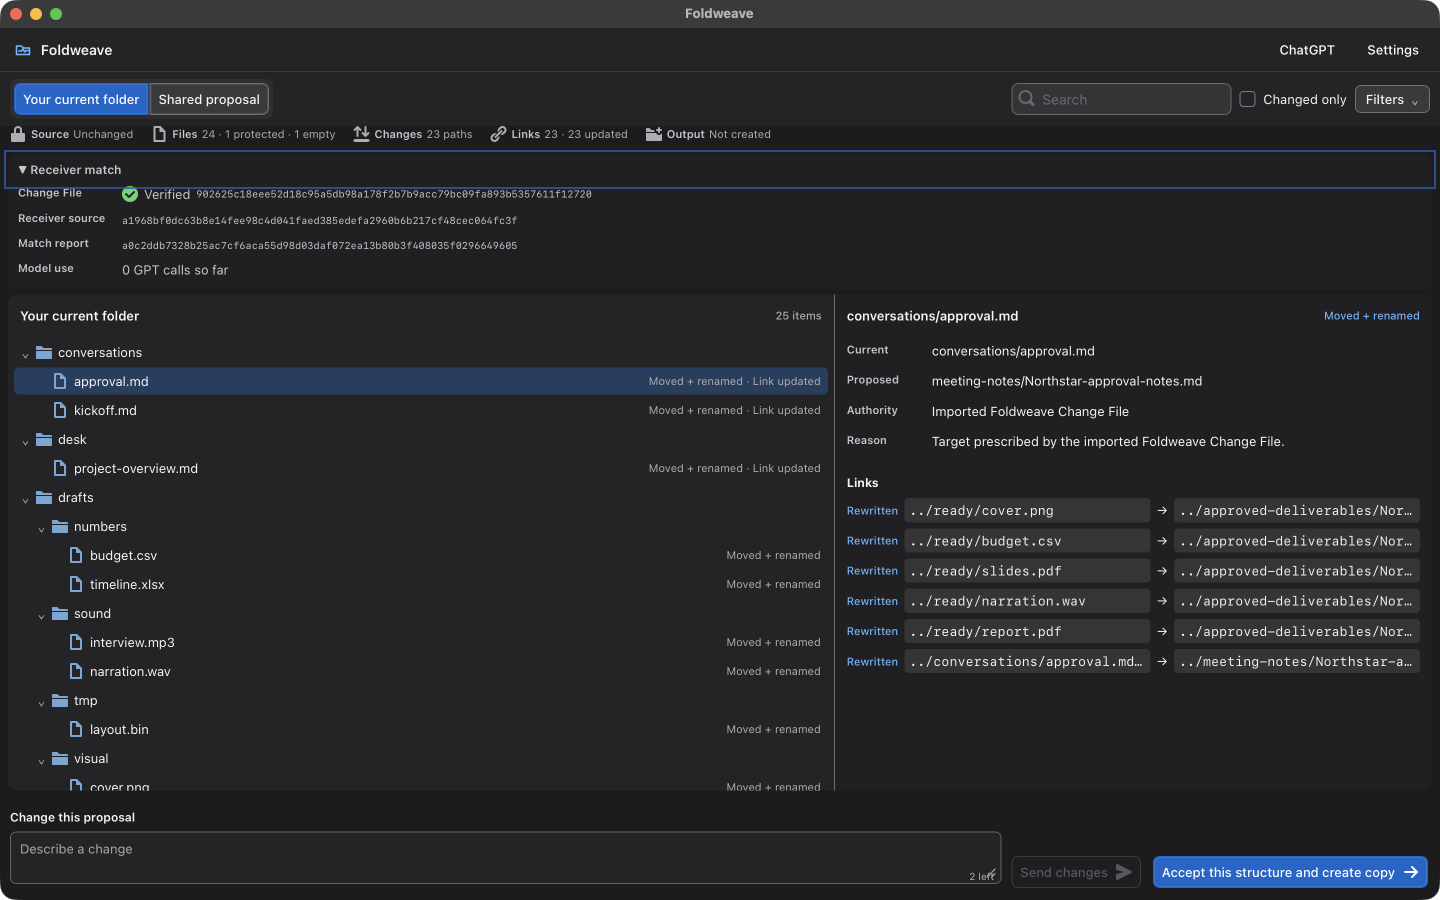
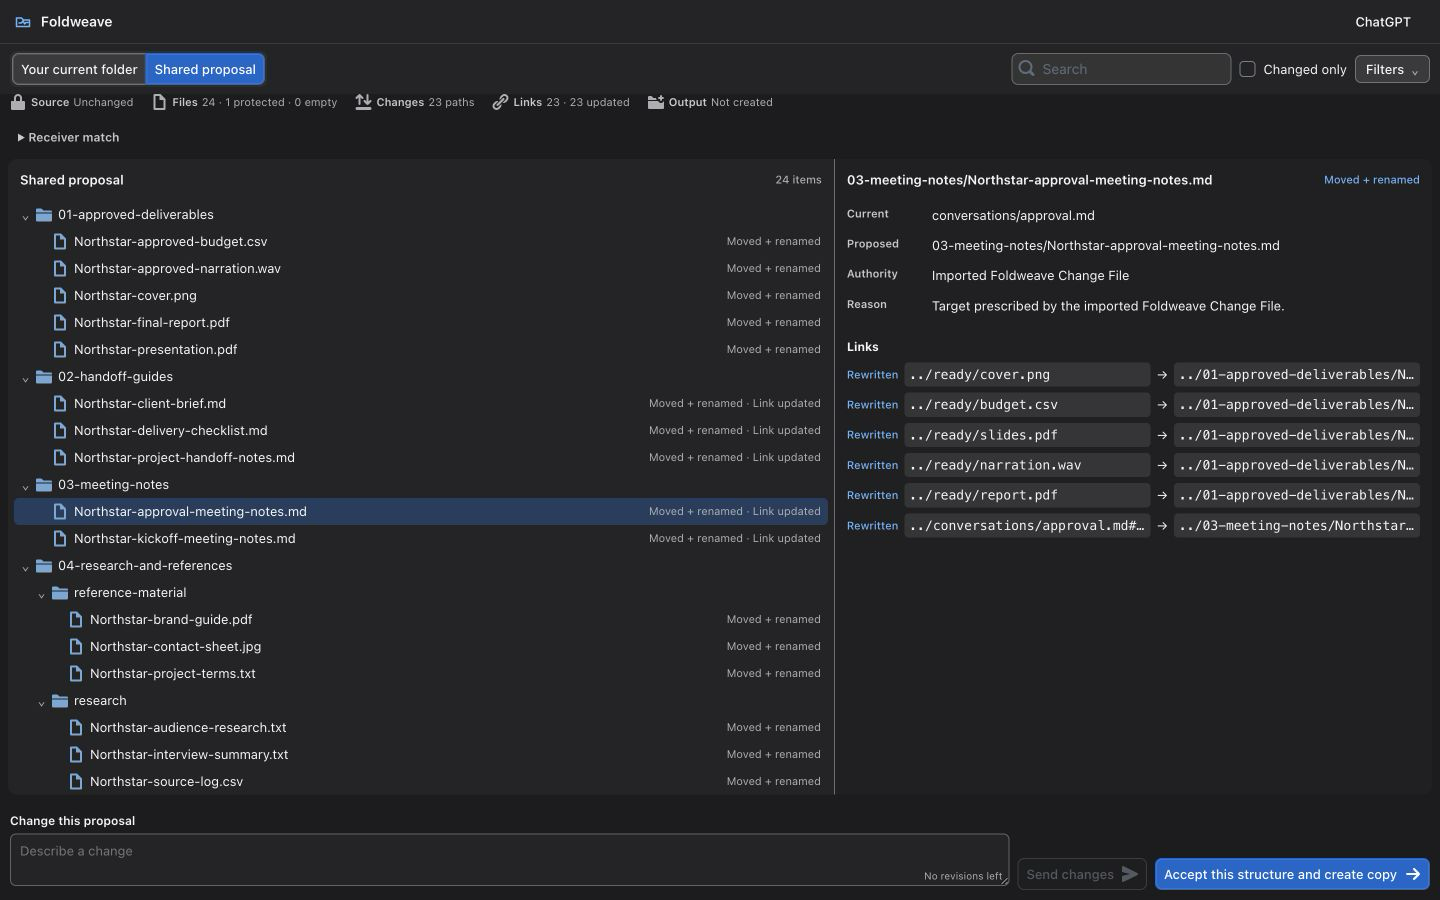
fix: finalize Foldweave replacement demo

diff --git a/web/src/review.css b/web/src/review.css
@@ -485,6 +485,8 @@ html[data-focus-origin="pointer"] .fw-review :where(button, input, textarea, sum
 }
 
 .fw-link-section {
+  min-width: 0;
+  overflow: hidden;
   padding: 4px 12px 14px;
 }
 
@@ -517,6 +519,8 @@ html[data-focus-origin="pointer"] .fw-review :where(button, input, textarea, sum
   display: grid;
   gap: 6px;
   grid-template-columns: auto minmax(0, 1fr) auto minmax(0, 1fr);
+  max-width: 100%;
+  min-width: 0;
 }
 
 .fw-link-section code,
@@ -527,6 +531,9 @@ html[data-focus-origin="pointer"] .fw-review :where(button, input, textarea, sum
 }
 
 .fw-link-section code {
+  display: block;
+  max-width: 100%;
+  min-width: 0;
   overflow: hidden;
   text-overflow: ellipsis;
   white-space: nowrap;

diff --git a/docs/SUBMISSION_PACKAGE.md b/docs/SUBMISSION_PACKAGE.md
@@ -42,7 +42,7 @@ external approval, release the submission hold, or authorize final submission.
 | Release candidate | Product baseline `4e9ec44b02b25f515017ceb9922fff4fdf84ae46` plus final UI/runtime checkpoint `68aba38a643d95f69e9aacd392904ef310f6994c` are selected and accepted; a fresh unrelated clean clone rebuilt and exercised the exact final product code successfully |
 | Final public `main` | Contains the accepted Foldweave release evidence through an ordinary no-force fast-forward; the exact current SHA is reported in the release handoff rather than embedded self-referentially |
 | Final screenshots and thumbnail | Nine UI captures, one explicitly labelled installed-copy Codex evidence card, and the thumbnail are visually reviewed, hash-recorded, and published in current release-evidence history; final focus/runtime corrections are verified separately and do not make a false recapture claim |
-| Final public video | **VERIFIED PUBLIC** — 2:55, <https://youtu.be/aQgpK5z9OUQ>; complete public playback reached Replay at 2:55 with audio enabled; YouTube checks reported no issues |
+| Final public video | **VERIFIED PUBLIC** — replacement 2:54 fixed-frame demo at <https://youtu.be/wY6gL6wfLzo>; exact stream and public metadata verified; YouTube checks reported no issues |
 | `/feedback` Session ID | **CAPTURED PRIVATELY** — exact value reserved for required Devpost field `27950` |
 | Personal eligibility and ownership attestations | **USER ACTION PENDING** |
 | Submission-hold release | **USER ACTION PENDING** |
@@ -106,8 +106,8 @@ user must personally review and make every personal or legal attestation.
[2 lines of base64/hex data omitted]
 | Final screenshots and thumbnail | Nine Foldweave UI captures, one installed-copy Codex evidence card, and the thumbnail are visually reviewed, hash-recorded, and published in current release-evidence history; the evidence card is not represented as a literal Codex UI screenshot |
-| Devpost project copy | Public project `1327974`, version `9`, is synchronized to the accepted product candidate and canonical Foldweave repository URL and includes the judge path, thumbnail, and verified public video without exposing the private `/feedback` identifier; required submission-field answers and personal attestations remain pending |
-| Public video URL | <https://youtu.be/aQgpK5z9OUQ> — Public; exact local master duration 175.000 seconds; public playback verified end to end |
+| Devpost project copy | Public project `1327974`, version `10`, is synchronized to the accepted product candidate, canonical Foldweave repository URL, and replacement public video without exposing the private `/feedback` identifier; required submission-field answers and personal attestations remain pending |
+| Public video URL | <https://youtu.be/wY6gL6wfLzo> — Public; exact local master duration 174.000 seconds; public watch page verified |
 | `/feedback` Session ID | `[CAPTURED PRIVATELY FROM THE PRIMARY CODEX BUILD TASK; ENTER IN REQUIRED FIELD 27950]` |
 | Entrant type and country | `[USER ACTION REQUIRED; DO NOT INFER]` |
 | Eligibility/ownership attestations | `[USER ACTION REQUIRED; READ AND PERSONALLY ATTEST]` |
@@ -750,7 +750,7 @@ production hardening are outside this release.
 | Judge instructions | `Use the final README from the accepted release. The fastest keyless path is uv sync --frozen followed by uv run foldweave demo --mode replay. Review the proposed structure, accept the exact preview, verify the separate result, and recreate the selected source. No API key is required for replay.` |
 | Plugin/developer-tool instructions | `Use the final plugins/foldweave/README.md from the accepted clean clone. Install foldweave@personal, restart or refresh Codex, open a fresh task, and invoke the installed Foldweave tools. Installed-copy release qualification is verified evidence for the accepted release candidate.` |
 | ChatGPT availability | `DEVELOPER_MODE_VERIFIED; CONSUMER_PAIRING_VERIFIED; technically PUBLICATION_READY. Not submitted for review, approved, published, publicly listed, or generally available.` |
-| Public video URL | `https://youtu.be/aQgpK5z9OUQ` — Public, 2:55, playback verified |
+| Public video URL | `https://youtu.be/wY6gL6wfLzo` — Public, 2:54, exact stream and metadata verified |
 | `/feedback` Session ID | `[CAPTURED PRIVATELY; USE THE EXACT PRIMARY-TASK VALUE IN FIELD 27950]` |
 | Submitter type | `[USER CONFIRM: INDIVIDUAL / TEAM / ORGANIZATION]` |
 | Country | `[USER CONFIRM; DO NOT INFER]` |
@@ -759,100 +759,79 @@ production hardening are outside this release.
 
 ## Final public video and demonstration record
 
-The final Build Week demo is public at <https://youtu.be/aQgpK5z9OUQ>.
+The replacement Build Week demo is public at <https://youtu.be/wY6gL6wfLzo>.
+It replaces the earlier moving-crop edit with a problem-first, fixed-frame
+explanation grounded in a fresh real `gpt-5.6` transaction.
 
 | Property | Verified result |
 |---|---|
-| Title | `Foldweave — Change the Structure. Keep the Connections. | OpenAI Build Week 2026` |
+| Title | `Foldweave | One change across different folder layouts | OpenAI Build Week` |
 | Visibility | Public |
-| Exact master duration | 175.000 seconds (`2:55`) |
-| Video | H.264 High, 1920×1080, 30 fps, progressive BT.709, 5,250 frames |
-| Audio | AAC-LC, 48 kHz stereo; −16.3 LUFS; true peak −4.4 dBFS |
[1 lines of base64/hex data omitted]
-| Narration | AI-generated with OpenAI Text-to-Speech from the frozen, evidence-checked script; disclosed on screen and in the YouTube description |
[1 lines of base64/hex data omitted]
-| YouTube processing | Checks complete; no issues found |
-| Public playback | Verified from start to Replay at 2:55 in Google Chrome with audio enabled and autoplay disabled |
+| Exact master duration | 174.000 seconds (`2:54`) |
+| Video | H.264 High, 1920×1080, 30 fps, progressive, `yuv420p`, 5,220 frames |
+| Audio | AAC-LC, 48 kHz stereo; −16.0 LUFS; true peak −1.37 dBFS |
[1 lines of base64/hex data omitted]
+| Narration | Generated with OpenAI Text-to-Speech model `gpt-4o-mini-tts-2025-12-15`, voice `cedar`; disclosed on the end card and in the YouTube description |
[1 lines of base64/hex data omitted]
+| YouTube processing | Upload complete; copyright checks complete; no issues found |
+| Public verification | Public watch page loaded the exact title, problem-first description, and 2:54 stream; the complete local master decoded without error |
+| Motion and framing | Thirteen fixed visual states, hard cuts only, no pan, no zoom, no moving crop, no overlay across an app control, and a separate unclipped end card |
 
-The following table is the executed shot plan. The exported master remains five
-seconds below the three-minute maximum after narration, transitions, and final
-encoding.
+The video shows a real exact `gpt-5.6` Responses API proposal for Sofia. After
+exact acceptance, Foldweave creates and verifies a separate 24-file result and
+rewrites 23 supported Markdown links. Martin then applies the resulting
+Foldweave Change File to the same project under different local paths without a
+model call or direct-budget reservation. The two results commit the same
+organized tree:
+
[1 lines of base64/hex data omitted]
+
+The following table is the executed fixed-frame shot plan.
 
 | Time | Visual and action | Purpose |
 |---:|---|---|
-| 0:00–0:12 | Foldweave title; one project note linking to several local files | Establish that a folder contains connections, not only filenames |
-| 0:12–0:30 | Open `Foldweave.app`; choose Sofia's folder; enter the Northstar request | Show the native, local-first start and plain-language intent |
-| 0:30–0:52 | Review **Original structure** and **Proposed structure**; search or select one changed member | Prove that the complete plan is visible before execution |
-| 0:52–1:10 | Enter one focused revision; show the replacement preview and delta | Demonstrate bounded iteration while the prior valid preview remains safe |
-| 1:10–1:26 | Select **Accept this structure and create copy**; show Done, source unchanged, and independent verification | Show exact authorization and separate verified output |
-| 1:26–1:41 | Download the Foldweave Change File; briefly show the payload-free metadata disclosure | Explain what travels and what does not |
-| 1:41–2:02 | Martin chooses CF1 and his differently arranged project; toggle **Your current folder** / **Shared proposal** | Show deterministic receiver-local review without GPT |
-| 2:02–2:22 | Build and review one T2 derivative through the selected live host; accept exact preview | Show serial collaboration rather than blind replay |
-| 2:22–2:38 | Apply CF2 to Sofia or a verified T1 result; show equal organized-tree proof and source-specific reconstruction | Demonstrate convergence and reversibility within the contract |
-| 2:38–2:48 | Brief ChatGPT widget and Codex installed-tool evidence | Explain the shared host surfaces and model-authority split |
-| 2:48–2:55 | Foldweave end card | Close with the product promise; the public repository remains in the YouTube description and Devpost field |
-
-F0d has passed, so the final video may show the qualified consumer ChatGPT path
-with the explicit same-conversation revision-recovery limitation. Do not imply
-review submission, approval, publication, public listing, or general
-availability.
+| 0:00–0:16 | Sofia and Martin show the same members under different paths | Define the portability problem immediately |
+| 0:16–0:29 | GPT-5.6, Foldweave, and human authority are separated | Explain the core architecture |
+| 0:29–0:42 | Display the exact plain-English request sent to `gpt-5.6` through the Responses API | Prove that the proposal came from a real live request |
+| 0:42–0:55 | Show Sofia's original 24-file tree | Prove that the source is untouched and no output exists |
+| 0:55–1:10 | Show the complete proposed structure and acceptance control | Prove review before execution |
+| 1:10–1:22 | Inspect a concrete Markdown destination rewrite | Show connection preservation at byte-bounded scope |
+| 1:22–1:35 | Show the separate verified result and reconstruction promise | Explain exact acceptance and proof |
+| 1:35–1:49 | Explain what the Foldweave Change File contains and excludes | Distinguish portable change metadata from project payload |
+| 1:49–2:03 | Show Martin's differently arranged current tree | Establish the receiver-local source |
+| 2:03–2:19 | Show Sofia's shared proposal against Martin's copy | Explain deterministic content and relationship matching |
+| 2:19–2:34 | Show equal organized-tree convergence | Prove model-free reuse across layouts |
+| 2:34–2:48 | Distinguish Codex, GPT-5.6, and Foldweave responsibilities | Document Build Week tool use and authority |
+| 2:48–2:54 | Separate Foldweave end card with repository and narration disclosure | Close without covering or clipping product UI |
 
 ## Timed narration script
 
-This is the frozen script used by the final OpenAI Text-to-Speech narration. It
-intentionally avoids a public-listing claim and uses the verified developer-mode
-and consumer-pairing evidence with their exact qualifications. The script
-contains **317 whitespace-delimited words**. Its 27 timed cues end at 2:53.800,
-leaving a 1.2-second silent end-card hold inside the exact 2:55 master.
+The final narration contains **300 whitespace-delimited words** in 13 timed
+cues. Each cue is aligned to one fixed visual state.
 
-> A project folder is more than filenames. Notes connect reports, research,
-> meetings, images, and working files. Reorganizing that folder with AI is easy.
-> Knowing exactly what will change, preserving the connections, and carrying the
-> same structure to a teammate's differently arranged copy is harder.
->
-> Foldweave separates planning, authorization, and proof.
->
-> Sofia selects her Apollo project and asks for a Northstar handoff. A live host
-> or this exact recorded planning run proposes one complete structure from
-> bounded evidence. The model cannot move a file or approve its own work.
->
-> Before Foldweave creates anything, Sofia sees her original folder and the
-> proposed structure. Every admitted file appears once. She can inspect moved
-> items and supported Markdown links, then request a focused revision. Fixed
-> code applies only that sparse change, rebuilds the complete proposal, and
-> checks every destination again.
->
-> Sofia accepts the exact preview. Foldweave creates a separate result, updates
-> supported link destinations, leaves her source unchanged, and verifies the
-> result independently.
->
-> The result includes a Foldweave Change File. It contains no project payload
-> bytes, but it does disclose names, structure, sizes, hashes, link
-> relationships, the instruction, targets, lineage, and proof identifiers.
->
-> Martin has the same supported project under different local paths. Foldweave
-> matches it deterministically and shows Martin's current folder against Sofia's
-> shared proposal. He can accept it unchanged without GPT, or use ChatGPT,
-> Codex, or direct GPT-5.6 planning to build the next complete proposal.
->
-> Martin creates T2 and sends a self-contained Change File back. Sofia can apply
-> it without the earlier file. Accepted T2 results converge to the same organized
-> tree, while each transaction can recreate the source it actually began with.
->
-> The native app, browser fallback, ChatGPT widget, Codex plugin, replay, and
-> Change File workflows all use one deterministic engine. Codex was the primary
-> development environment; GPT-5.6 plans intent, the user accepts the exact
-> structure, and Foldweave proves the result.
->
-> Foldweave. Change the structure. Keep the connections.
+| Time | Narration |
+|---:|---|
+| 0:00–0:16 | Sofia and Martin have the same twenty-four files and supported Markdown relationships, but their folders evolved into different layouts. A path-based rename script cannot safely carry Sofia’s organization to Martin. |
+| 0:16–0:29 | Asking a model twice can produce two different answers. Foldweave separates intent from execution. GPT-5.6 proposes one structure; deterministic code proves what it would do. |
+| 0:29–0:42 | This is a real request to exact GPT-5.6 through Foldweave’s Responses API. Sofia asks for a handoff-ready Northstar structure while keeping every file and connection. The live response produces this proposal. |
+| 0:42–0:55 | Nothing has changed yet. The source remains untouched, all twenty-four files are accounted for, and no output exists. |
+| 0:55–1:10 | Sofia switches to the complete proposal. Twenty-three paths change. Fixed code checks protected files, collisions, and every supported link before acceptance can execute anything. |
+| 1:10–1:22 | Here, one Markdown destination changes because its target moved. The prose and every non-destination byte remain the same. |
+| 1:22–1:35 | After Sofia accepts this exact preview, Foldweave creates a separate copy, verifies it, and can recreate the source layout for this transaction. |
+| 1:35–1:49 | The result includes a payload-free Foldweave Change File. It carries names, hashes, structure, link relationships, targets, and proof identifiers, but not project file contents. |
+| 1:49–2:03 | Martin chooses that Change File and his differently arranged copy. Foldweave scans his actual folder and matches every member without using Sofia’s paths as evidence. |
+| 2:03–2:19 | He compares his folder with Sofia’s proposal. Ordinary files match by size and hash. Markdown matches by unchanged bytes and link relationships. Ambiguity stops the job. |
+| 2:19–2:34 | Martin accepts without another model call. Both results converge to the same organized tree, while each receipt can recreate the source that participant actually selected. |
+| 2:34–2:48 | Codex was our primary build environment for the contracts, engine, native app, MCP integrations, and adversarial tests. GPT-5.6 handles intent. Foldweave handles execution and proof. |
+| 2:48–2:54 | Foldweave. Change the structure. Keep the connections. |
 
 Narration and media acceptance are complete:
 
-- the lexical word count and timed cue map are recorded;
-- every sentence maps to accepted release evidence;
-- the AI narration is intelligible, level-checked, and visibly disclosed;
-- the complete exported video is exactly 2:55; and
-- the public upload was played from start to Replay with audio enabled.
+- every sentence maps to accepted product evidence;
+- the audio was independently transcribed and retained the complete meaning;
+- the complete 174.000-second master decodes without error;
+- the public watch page exposes the correct 2:54 stream; and
+- no screenshot, app control, or end-card line is clipped.
 
 ## Capture and media checklist
 
@@ -923,10 +902,10 @@ Current screenshot and thumbnail hashes:
 |---|---:|---:|---|
[11 lines of base64/hex data omitted]
@@ -934,8 +913,10 @@ Current screenshot and thumbnail hashes:
[2 lines of base64/hex data omitted]
 
-These unchanged release-image hashes remain truthful for the default states they
-show. Final implementation checkpoint
+The origin and receiver README captures were refreshed from the same exact
+`gpt-5.6` and model-free receiver transactions shown in the replacement video.
+The remaining release-image hashes remain truthful for their recorded states.
+Final implementation checkpoint
 `68aba38a643d95f69e9aacd392904ef310f6994c` changes pointer-focus presentation
 and fail-closed noninteractive Keychain behavior; those changes are verified by
 the separate computed-style, rendered-geometry, packaged-route, and regression
@@ -1074,7 +1055,7 @@ pywebview, PyInstaller, and every other dependency or asset obligation.
 | Codex plugin is installed and uses the same engine | Final clean-clone install, cache identity, fresh task, discovery, invocation, complete reviewed path, uninstall | `CLEAN-CLONE PLUGIN VALIDATION AND STDIO MCP DISCOVERY PASSED; FULL INSTALLED-COPY UI INVOCATION EVIDENCE REMAINS CURRENT LOCAL QUALIFICATION` |
 | Consumer ChatGPT pairing works | Real OAuth/PKCE, pairing, WSS, reconnect, bounded refusal/revocation coverage, origin and receiver derivative, unchanged ledger | `CONSUMER_PAIRING_VERIFIED`; standard `ui/message` continuation still requires the documented explicit same-conversation recovery |
 | Foldweave is public in ChatGPT | Observed approval and publication | `NOT ESTABLISHED — DO NOT CLAIM` |
-| Foldweave public video is complete | Accepted release commit, fresh public clean clone, all mandatory modes, final proof, 2:55 master, public YouTube playback, disclosed narration, and no planned product/design work | `VERIFIED — https://youtu.be/aQgpK5z9OUQ; Devpost project version 9 contains the video and canonical repository URLs` |
+| Foldweave public video is complete | Accepted release commit, fresh public clean clone, all mandatory modes, final proof, 2:54 fixed-frame master, public YouTube stream, disclosed narration, and no planned product/design work | `VERIFIED — https://youtu.be/wY6gL6wfLzo; Devpost project version 10 contains the replacement video and canonical repository URLs` |
 | Final submission is complete | Captured `/feedback` Session ID, personal/legal attestations, explicit hold release, Devpost submission, and confirmation | `PENDING USER-OWNED ATTESTATIONS, HOLD RELEASE, AND FINAL SUBMISSION` |
 
 ## Due-diligence checklist
@@ -1154,18 +1135,17 @@ pywebview, PyInstaller, and every other dependency or asset obligation.
       video uses no music, uses repository-owned or generated visual material,
       and discloses its OpenAI Text-to-Speech narration.
 - [x] Confirm no unlicensed music or footage.
-- [x] Run the macOS synthetic-speech timing preflight for the frozen 317-word
-      narration: 150.304 seconds at 125 words per minute and 148.652 seconds
-      at 130 words per minute. This is timing-margin evidence only.
+- [x] Freeze the replacement 300-word, 13-cue narration and align every cue to
+      one fixed visual state.
 - [x] Time the final narrated master and verify comfortable cue/shot pacing.
 - [x] Generate and disclose the authorized OpenAI Text-to-Speech narration.
 - [x] Export a complete video strictly below 3:00 with intelligible audio:
-      exact duration 175.000 seconds, −16.3 LUFS, no decode errors.
+      exact duration 174.000 seconds, −16.0 LUFS, no decode errors.
 - [x] Decode and inspect the complete local master; independently audit its
       visuals, claims, timing, and sensitive-data boundary.
 - [x] Upload the video Public to YouTube and publish the English caption track.
-- [x] Play the complete public upload from start to Replay with audio enabled
-      and verify <https://youtu.be/aQgpK5z9OUQ>.
+- [x] Verify the public watch page, exact 2:54 stream, title, description,
+      checks, and published caption track at <https://youtu.be/wY6gL6wfLzo>.
 
 ### Devpost and user-owned actions
 
@@ -1188,7 +1168,7 @@ pywebview, PyInstaller, and every other dependency or asset obligation.
       reproduced the keyless review/accept/verify/reconstruct path, and passed
       the final local Markdown-link and release-state checks.
 - [x] Add the verified public YouTube URL and canonical Foldweave repository URL
-      to Devpost project `1327974`; version `9` reports both and remains
+      to Devpost project `1327974`; version `10` reports both and remains
       unsubmitted.
 - [x] Capture the primary Codex task's exact `/feedback` Session ID privately
       for required Devpost field `27950`; do not duplicate it in public release

diff --git a/docs/CODEX_BUILD_LOG.md b/docs/CODEX_BUILD_LOG.md
@@ -1115,10 +1115,10 @@ hash-recorded:
 |---|---:|---:|---|
[11 lines of base64/hex data omitted]
@@ -1126,12 +1126,11 @@ hash-recorded:
[2 lines of base64/hex data omitted]
 
-Final release-artifact inspection found that the original bytes behind the
-`.png` filename for `03-origin-review.png` were JPEG-encoded. The capture was
-decoded and losslessly re-encoded as genuine PNG bytes; a decoded RGB
-pixel-equivalence check preserved its 1728×940 rendered content exactly. The
-table records the normalized asset's new size and SHA-256. No product state,
-claim, or visual content changed.
+The replacement-video pass later refreshed `03-origin-review.png` and
+`06-receiver-review.png` from the fresh exact `gpt-5.6` origin and model-free
+receiver transactions. Both are genuine 1440×900 PNG captures with current
+hashes in the table. The selected link rows remain inside the inspector panel,
+and the complete acceptance control remains inside the review surface.
 
 The final gallery contact-sheet review confirmed that the nine UI captures, one
 installed-copy Codex evidence card, and thumbnail retain the intended restrained
@@ -1327,7 +1326,7 @@ The final public YouTube video, user-owned eligibility and ownership entries,
 explicit submission-hold release, final submission, and confirmation remain
 pending. The submission hold remains active.
 
-### Public Build Week video and Devpost-draft synchronization — 21 July 2026
+### Initial public Build Week video and Devpost-draft synchronization — 21 July 2026
 
 The user authorized an AI-narrated final video because illness made a personal
 voice recording impractical. The frozen 317-word evidence-checked script was
@@ -1344,10 +1343,10 @@ Full decode, frame-count, audio-level, visual, claim-to-evidence,
 synchronization, and sensitive-data checks passed. An independent read-only
 media audit returned `GO` for upload.
 
-The video was uploaded and published Public on YouTube as **Foldweave — Change
-the Structure. Keep the Connections. | OpenAI Build Week 2026**:
-
-<https://youtu.be/aQgpK5z9OUQ>
+The initial video was uploaded and published Public on YouTube as **Foldweave:
+Change the Structure. Keep the Connections. | OpenAI Build Week 2026**. The
+replacement-video record below supersedes that upload and removes it from all
+active release references.
 
 YouTube reported **Checks complete. No issues found.** A 27-cue English caption
 track with SHA-256
@@ -1386,3 +1385,45 @@ description was saved with the canonical Foldweave repository URL. Devpost
 project `1327974` was updated to version `9`; connector readback reports the
 canonical repository and public video while Build Week `submitted_at` remains
 `null`. No final submission occurred, and the submission hold remains active.
+
+### Replacement problem-first video and fresh live transaction — 21 July 2026
+
+The user rejected the initial moving-crop edit because it did not explain the
+cross-layout problem clearly enough and clipped the final application frame.
+The replacement uses thirteen fixed 1920×1080 visual states, hard cuts only,
+and no pan, zoom, moving crop, or overlay across an application control. The
+final frame is a separate unclipped end card.
+
+A fresh exact `gpt-5.6` Responses API transaction produced Sofia's complete
+24-file proposal. The provider returned `gpt-5.6-sol`; the durable execution
+origin is `gpt_planned`; and one provider attempt used three bounded response
+turns. After exact acceptance, the result rewrote 23 of 23 supported Markdown
+links. Martin then applied the resulting Foldweave Change File to a differently
+arranged equivalent source with `planning_basis: none`, `model_transport: none`,
+and `execution_origin: capsule_applied`. Both verified results commit organized
[1 lines of base64/hex data omitted]
+
+The 300-word narration was rendered as thirteen aligned cues with authorized
+OpenAI Text-to-Speech model `gpt-4o-mini-tts-2025-12-15`, voice `cedar`. The
+complete master is exactly 174.000 seconds (`2:54`), 1920×1080 at 30 fps, H.264
+High / AAC-LC, `yuv420p`, with 5,220 frames, −16.0 LUFS integrated loudness,
+and true peak −1.37 dBFS. Its SHA-256 is
[1 lines of base64/hex data omitted]
+The 13-cue timed English SRT has SHA-256
[1 lines of base64/hex data omitted]
+Full decode, fixed-frame, end-frame, loudness, transcript, visual, claim, and
+sensitive-data checks passed.
+
+The replacement was published Public as **Foldweave | One change across
+different folder layouts | OpenAI Build Week**:
+
+<https://youtu.be/wY6gL6wfLzo>
+
+YouTube reported **Checks complete. No issues found.** The timed English caption
+track is published in Studio. Google Chrome loaded the public watch page with
+the exact title, problem-first description, and 2:54 stream. The video
+description links the canonical Foldweave repository and discloses the
+text-to-speech narration. Devpost project `1327974` was synchronized to the
+replacement URL as version `10`; connector readback returned Build Week
+`submitted_at: null`. Final Devpost submission remains prohibited until the user
+completes personal attestations and explicitly releases the hold.

diff --git a/docs/LIMITATIONS.md b/docs/LIMITATIONS.md
@@ -22,7 +22,7 @@ integrated implementation baseline. Product release baseline
 correction checkpoint `68aba38a643d95f69e9aacd392904ef310f6994c` passed
 renewed clean-clone acceptance and is included in the release fast-forwarded to
 public `main`.
-Its product, capture package, and 2:55 public Build Week video are complete; the
+Its product, capture package, and 2:54 public Build Week video are complete; the
 Devpost entry remains unsubmitted. The following distinctions are part of the
 claim boundary:
 
@@ -36,7 +36,7 @@ claim boundary:
 | Codex | Foldweave plugin `0.1.0+codex.20260721091729` is installed and enabled from the repository marketplace; installed cache inspection and stdio MCP initialization/tool discovery pass against the same local MCP server |
[1 lines of base64/hex data omitted]
 | Public ChatGPT availability | Not submitted for review, approved, published, publicly listed, or claimed |
-| Foldweave product release candidate | Accepted and fast-forwarded to public `main`; public video verified at <https://youtu.be/aQgpK5z9OUQ>; `/feedback` Session ID captured privately for the required submission field; personal attestations and explicit hold release remain separate gates |
+| Foldweave product release candidate | Accepted and fast-forwarded to public `main`; replacement public video verified at <https://youtu.be/wY6gL6wfLzo>; `/feedback` Session ID captured privately for the required submission field; personal attestations and explicit hold release remain separate gates |
 
 The operational checkpoint in `docs/build/STATE.md` changes as qualification
 continues. This document intentionally states only the minimum durable boundary

diff --git a/README.md b/README.md
@@ -22,7 +22,7 @@ proposed one. The user can revise the proposal or accept what is on screen. Only
 acceptance creates a separate verified copy. The original folder is left
 untouched.
 
-[Watch the 2:55 demo](https://youtu.be/aQgpK5z9OUQ) ·
+[Watch the 2:54 demo](https://youtu.be/wY6gL6wfLzo) ·
 [Try the keyless replay](#try-foldweave-in-five-minutes) ·
 [See how the cross-layout matching works](#the-key-idea-one-change-different-layouts)
 

diff --git a/docs/PREEXISTING_WORK.md b/docs/PREEXISTING_WORK.md
@@ -133,7 +133,7 @@ subsystem appeared for the first time in the latest revision.
 | Foldweave F1 authority `2322076` | Durable v3 review job and exact authorization boundary | Append-only mutation history, exact-request rehydration, destination reservation, bounded revision recovery, and strengthened stale/duplicate/race refusal behavior |
 | Foldweave shared-planning checkpoint `719fc18` | F0a/F0b review and native authority, the Connected Change matcher/proof services, and the same v3 job | Complete v2 derivative/lineage and v3 proof implementation; real macOS ChatGPT developer-mode root review/revision/acceptance through the Secure MCP Tunnel; provider-free hosted provenance; shared local/public MCP authority; bounded gateway/companion implementation; and regression/audit corrections that keep public job capabilities inside the trusted local host. This checkpoint does not claim a deployed consumer gateway, public ChatGPT listing, final live derivative matrix, current Codex installed-copy qualification, or release readiness. |
 | Historical Foldweave post-`719fc18` worktree checkpoint | The immutable `719fc18` engine, v3 job/preview authority, native package, shared MCP services, gateway/companion, and thin Foldweave plugin | Completed the direct and actual ChatGPT-hosted derivative evidence, keyless replay qualification, macOS-native visual correction and objective viewport/accessibility checks, 55 MiB native package requalification, Cloudflare Worker deployment version `ece68561-0740-47d3-9052-4e311cabf483`, and installed-copy qualification of Foldweave plugin `0.1.0+codex.20260720144006`. Google Chrome safely bypassed the Codex in-app Browser hostname block; the real consumer connector completed OAuth, paired WSS access, opaque selection, hosted root planning, v33 widget rendering through bounded v31/v32 template compatibility, durable root and receiver-derivative revisions with verified same-conversation recovery, exact acceptance, two verified 24-file separate results, source-free and source-aware verification, self-contained origin/child Foldweave Change Files, immediate-parent lineage, path-and-byte-identical Sofia/Martin reconstruction, and disconnect/reconnect plus deployed refusal qualification without job, result, or ledger mutation. `CONSUMER_PAIRING_VERIFIED` and the narrow technical `PUBLICATION_READY` state were achieved. Automatic component continuation remained explicitly partial; no ChatGPT review submission, approval, publication, public listing, notarization, release candidate, video, or Devpost submission was claimed at that checkpoint. |
-| Foldweave final implementation `68aba38` | The verified `719fc18` engine and all subsequent repository-owned review, derivative, native, ChatGPT, gateway, MCP, Codex, replay, and proof work | Accepted the final native-style focus/alignment and fail-closed packaged-runtime corrections; deployed Worker version `77598fb6-72e4-48ee-919e-27488a60a515` with byte-matched `review-v37`; qualified plugin `0.1.0+codex.20260721091729`; passed a fresh 1,184-test clean clone, app/wheel build, source-free/source-aware origin and receiver verification, equal organized-tree convergence, and transaction-specific reconstruction. This is the final implementation evidence. It historically predates the later verified public video at <https://youtu.be/aQgpK5z9OUQ>, which adds release media but no product code. The app remains unsigned/ad-hoc; ChatGPT review submission/publication, user attestations, hold release, and Devpost submission remain unclaimed. |
+| Foldweave final implementation `68aba38` | The verified `719fc18` engine and all subsequent repository-owned review, derivative, native, ChatGPT, gateway, MCP, Codex, replay, and proof work | Accepted the final native-style focus/alignment and fail-closed packaged-runtime corrections; deployed Worker version `77598fb6-72e4-48ee-919e-27488a60a515` with byte-matched `review-v37`; qualified plugin `0.1.0+codex.20260721091729`; passed a fresh 1,184-test clean clone, app/wheel build, source-free/source-aware origin and receiver verification, equal organized-tree convergence, and transaction-specific reconstruction. This is the final implementation evidence. It historically predates the later verified replacement public video at <https://youtu.be/wY6gL6wfLzo>, which adds release media and a fresh exact `gpt-5.6` demonstration but no product code. The app remains unsigned/ad-hoc; ChatGPT review submission/publication, user attestations, hold release, and Devpost submission remain unclaimed. |
 
 The Connected Change matcher, Change File contracts, provenance and receipt
 semantics, receiver application, current browser journeys, shared MCP server,